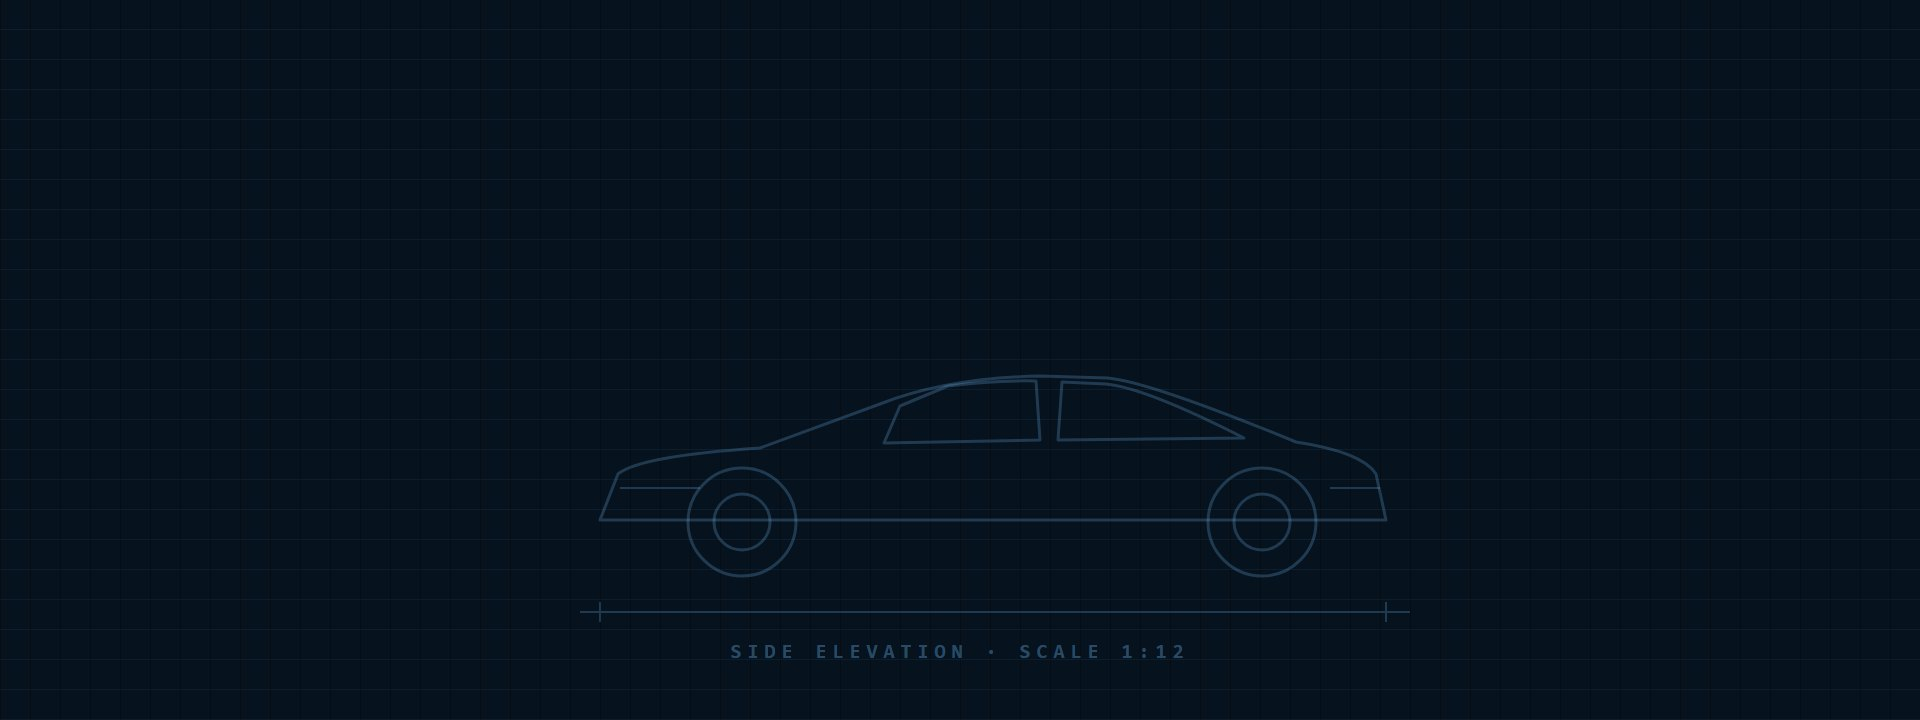
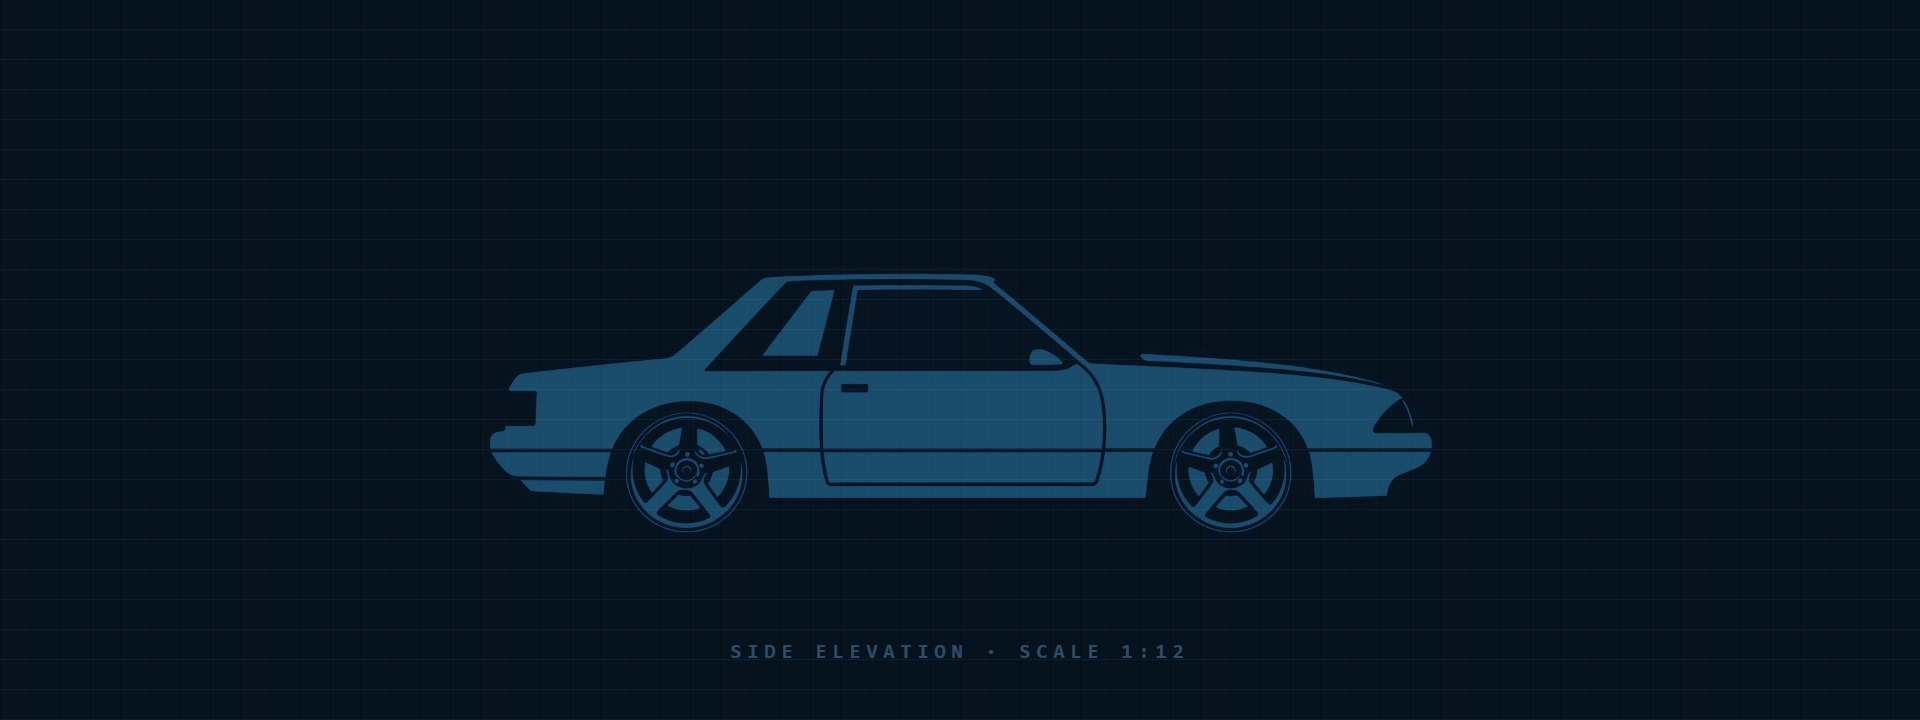
Splash screens use Avery Izatt's own car artwork; hand-drawn car removed
Side and front views (tools/art-src/fox-*-avery.png) replace the generated
line art in all splashes and the blueprint background. Adds a front-view splash.

Changed region(s): [[0.25, 0.3667, 0.75, 0.7639]]

diff --git a/tools/make_art.py b/tools/make_art.py
@@ -8,7 +8,6 @@ rendered at the dash's 1920 x 720 with Chromium, so it is easy to edit and re-ru
 """
 import asyncio
 import base64
-import math
 import json
 from pathlib import Path
 
@@ -42,46 +41,19 @@ def credit(text):
     return f'<div style="position:absolute;right:18px;bottom:12px;font:13px Oswald,sans-serif;letter-spacing:1px;color:#ffffff70">{text}</div>'
 
 
-# ---- Original line art: Fox-body notchback side profile (front at left), 1000 x 300 units ----
-FOX_BODY = ('M50 240 L42 214 L40 196 Q40 184 48 178 L62 163 C140 147 236 126 320 112 L410 39 C444 30 560 27 610 34 L690 99 '
-            'C762 100 880 102 944 109 L951 122 L953 176 Q957 204 947 218 L941 240 L807.8 242 A70 70 0 1 0 676.2 242 L305.8 244 A70 70 0 1 0 174.2 242 Z')
+# ---- The car: Avery Izatt's own artwork (tools/art-src/fox-*-avery.png, transparent PNGs) ----
+# name, image width, image height, crop box (left, top, right, bottom) around the car.
+SIDE = ('fox-side-avery.png', 1536, 1024, (20, 280, 1516, 760))
+FRONT = ('fox-front-avery.png', 1254, 1254, (10, 200, 1244, 1010))
 
 
-def fox_wheel(cx, cy, ink, paper, solid):
-    spokes = ''
-    for i in range(5):
-        a = math.radians(-90 + i * 72)
-        points = [(10, a - .34), (40, a - .12), (40, a + .12), (10, a + .34)]
-        spokes += '<path d="M' + ' L'.join(f'{cx + r * math.cos(t):.1f} {cy + r * math.sin(t):.1f}' for r, t in points) + f'Z" fill="{paper if solid else ink}"/>'
-    if solid:
-        return (f'<circle cx="{cx}" cy="{cy}" r="64" fill="{ink}"/><circle cx="{cx}" cy="{cy}" r="44" fill="{paper}"/>'
-                f'<circle cx="{cx}" cy="{cy}" r="40" fill="{ink}"/>{spokes}<circle cx="{cx}" cy="{cy}" r="9" fill="{paper}"/><circle cx="{cx}" cy="{cy}" r="4" fill="{ink}"/>')
-    return (f'<circle cx="{cx}" cy="{cy}" r="62" fill="{paper}" stroke="{ink}" stroke-width="5"/><circle cx="{cx}" cy="{cy}" r="43" fill="none" stroke="{ink}" stroke-width="3"/>'
-            f'{spokes}<circle cx="{cx}" cy="{cy}" r="10" fill="{ink}"/><circle cx="{cx}" cy="{cy}" r="4" fill="{paper}"/>')
-
-
-def fox(width, ink='#f2f2f2', paper='#0b0d10', glass='#262d34', solid=False, border=0, flip=False, style=''):
-    """The car as an inline SVG. The body is squashed 10% towards the ground for a lowered
-    stance; wheels stay round. border > 0 adds a sticker-style outer outline."""
-    body = ''
-    if border:
-        body += f'<path d="{FOX_BODY}" fill="{ink}" stroke="{ink}" stroke-width="{border}" stroke-linejoin="round"/>'
-    body += f'<path d="{FOX_BODY}" fill="{paper}" stroke="{ink}" stroke-width="5" stroke-linejoin="round"/>'
-    body += f'<path d="M342 110 L416 47 L541 41 L548 107 Z" fill="{glass}"/><path d="M562 106 L556 41 L600 42 L648 103 Z" fill="{glass}"/>'
-    body += f'<path d="M672 101 L622 44 L614 43 L662 102 Z" fill="{glass}"/>'
-    line = f'stroke="{ink}" stroke-width="2.8" fill="none" stroke-linecap="round" stroke-linejoin="round"'
-    body += f'<path d="M333 113 L328 240 M553 109 L557 241 M333 113 L553 109" {line}/>'
-    body += f'<path d="M62 186 L178 181 M302 178 L680 176 M804 176 L951 178 M48 214 L170 210 M812 210 L951 208" {line}/>'
-    body += f'<path d="M100 157 C180 142 250 130 316 120" {line}/>'
-    body += f'<path d="M320 112 L332 99 L348 99 L340 111 Z" fill="{ink}"/><rect x="508" y="127" width="27" height="6" rx="3" fill="{ink}"/>'
-    body += f'<path d="M58 166 L88 160 L88 177 L52 180 Z" fill="{ink}"/><path d="M926 113 L950 122 L952 164 L926 162 Z" fill="{ink}"/>'
-    wheels = ''
-    if border:
-        wheels += ''.join(f'<circle cx="{cx}" cy="216" r="{64 + border / 2}" fill="{ink}"/>' for cx in (240, 742))
-    wheels += fox_wheel(240, 216, ink, paper, solid) + fox_wheel(742, 216, ink, paper, solid)
-    flipped = ' transform="translate(1000,0) scale(-1,1)"' if flip else ''
-    return (f'<svg viewBox="-24 -4 1048 304" width="{width}" style="position:absolute;{style}"><g{flipped}>'
-            f'<g transform="translate(0,28.2) scale(1,.9)">{body}</g>{wheels}</g></svg>')
+def car(art, width, style='', effects=''):
+    """The car artwork cropped to its box and scaled to `width` pixels wide."""
+    name, image_width, _, (left, top, right, bottom) = art
+    scale = width / (right - left)
+    return (f'<div style="position:absolute;overflow:hidden;width:{width}px;height:{(bottom - top) * scale:.0f}px;{style}">'
+            f'<img src="{data(name)}" style="display:block;width:{image_width * scale:.1f}px;max-width:none;'
+            f'margin:{-top * scale:.1f}px 0 0 {-left * scale:.1f}px;{effects}"></div>')
 
 
 def stage(inner, glow='#1a2129'):
@@ -115,12 +87,7 @@ ART = [
 <div style="position:absolute;inset:0;background:radial-gradient(ellipse 55% 70% at 100% 100%,#c0181a38,transparent 70%),linear-gradient(90deg,#000a,transparent 30%,transparent 70%,#000a)"></div>'''),
     ('bg-blueprint-coupe.jpg', 'background', 'Blueprint coupe', '''
 <div style="position:absolute;inset:0;background:repeating-linear-gradient(0deg,#5fb6ff12 0 1px,transparent 1px 30px),repeating-linear-gradient(90deg,#5fb6ff12 0 1px,#06121e 1px 30px)"></div>
-<svg width="1920" height="720" style="position:absolute;inset:0" fill="none" stroke="#7cc4ff3a" stroke-width="3" stroke-linejoin="round">
-<path d="M600 520 L618 474 Q640 456 760 448 L880 404 Q946 378 1040 376 L1108 378 Q1150 382 1296 442 Q1362 452 1376 474 L1386 520 Z"/>
-<path d="M900 406 L948 386 Q996 380 1036 381 L1040 440 L884 443 Z"/><path d="M1062 382 L1106 384 Q1146 388 1244 438 L1058 440 Z"/>
-<path d="M620 488 H700 M1330 488 H1380" stroke-width="2"/>
-<circle cx="742" cy="522" r="54"/><circle cx="742" cy="522" r="28"/><circle cx="1262" cy="522" r="54"/><circle cx="1262" cy="522" r="28"/>
-<path d="M580 612 H1410 M600 602 V622 M1386 602 V622" stroke-width="2"/></svg>
+''' + car(SIDE, 980, 'left:470px;top:250px;opacity:.34;mix-blend-mode:screen', 'filter:brightness(.55) sepia(1) hue-rotate(175deg) saturate(5)') + '''
 <div style="position:absolute;left:960px;top:640px;transform:translateX(-50%);color:#7cc4ff55;font:600 20px monospace;letter-spacing:6px">SIDE ELEVATION · SCALE 1:12</div>'''),
     ('bg-tach-glow.jpg', 'background', 'Tach glow', '''
 <div style="position:absolute;inset:0;background:radial-gradient(circle at 50% 120%,#1a0a0a,#050506 60%)"></div>
@@ -132,41 +99,46 @@ ART = [
     ('bg-photo-pace-car.jpg', 'background', 'Pace car (photo)', photo_bg('mustang-pace-car.jpg', '50% 70%')),
     ('bg-photo-fastback.jpg', 'background', 'Fastback (photo)', photo_bg('mustang-fox-fastback.jpg', '50% 50%')),
     ('bg-photo-gt-blue.jpg', 'background', 'Blue GT (photo)', photo_bg('mustang-1985-gt-blue.jpg', '60% 60%')),
-    # Splash screens: original line art, the Ford oval and the 1980s Mustang script (see CREDITS.md).
+    # Splash screens: the owner's car artwork, the Ford oval and the 1980s Mustang script (see CREDITS.md).
     ('splash-made-by-avery-izatt.jpg', 'splash', 'Made by Avery Izatt', stage(
-        fox(1060, style='left:430px;top:22px') + f"""
-<div style="position:absolute;left:0;right:0;top:364px;text-align:center;font:500 26px/1 Oswald,sans-serif;letter-spacing:18px;color:#d23a3a">MADE BY</div>
-<div style="position:absolute;left:0;right:0;top:406px;text-align:center;{WIDE};font-size:118px;line-height:1;letter-spacing:6px;color:#f4f4f4">Avery Izatt</div>
-<div style="position:absolute;left:660px;top:556px;width:600px;height:5px;background:linear-gradient(90deg,#d23a3a 0 33.3%,#f4f4f4 33.3% 66.6%,#2f6fd8 66.6%)"></div>
-<div style="position:absolute;left:0;right:0;top:582px;text-align:center;font:400 22px/1 Oswald,sans-serif;letter-spacing:10px;color:#8d98a2">FOX BODY · 5.0</div>""")),
+        car(SIDE, 1040, 'left:440px;top:22px') + f"""
+<div style="position:absolute;left:0;right:0;top:372px;text-align:center;font:500 26px/1 Oswald,sans-serif;letter-spacing:18px;color:#d23a3a">MADE BY</div>
+<div style="position:absolute;left:0;right:0;top:412px;text-align:center;{WIDE};font-size:118px;line-height:1;letter-spacing:6px;color:#f4f4f4">Avery Izatt</div>
+<div style="position:absolute;left:660px;top:560px;width:600px;height:5px;background:linear-gradient(90deg,#d23a3a 0 33.3%,#f4f4f4 33.3% 66.6%,#2f6fd8 66.6%)"></div>
+<div style="position:absolute;left:0;right:0;top:586px;text-align:center;font:400 22px/1 Oswald,sans-serif;letter-spacing:10px;color:#8d98a2">FOX BODY · 5.0</div>""")),
     ('splash-ford-oval.jpg', 'splash', 'Ford oval', f"""
 <div style="position:absolute;inset:0;background:radial-gradient(ellipse 60% 75% at 50% 50%,#1b2a4a,#05070c 75%)"></div>
 <div style="position:absolute;inset:0;background:repeating-linear-gradient(90deg,#ffffff05 0 1px,transparent 1px 4px)"></div>
 <img src="{data('ford-oval.png')}" style="position:absolute;left:50%;top:44%;width:760px;transform:translate(-50%,-50%);filter:drop-shadow(0 18px 40px #000c)">
 <div style="position:absolute;left:0;right:0;top:560px;text-align:center;font:500 30px/1 Oswald,sans-serif;letter-spacing:18px;color:#c9d3e4">FOX BODY MUSTANG</div>
 {notice('Ford oval is a trademark of Ford Motor Company · not affiliated')}"""),
-    ('splash-mustang-outline.jpg', 'splash', 'Mustang outline', stage(
-        fox(1180, style='left:370px;top:14px') + f"""
-<div style="position:absolute;left:0;right:0;top:344px;text-align:center;{WIDE};font-size:208px;line-height:1;letter-spacing:10px;color:#f4f4f4;-webkit-text-stroke:5px #f4f4f4">Mustang</div>
-<div style="position:absolute;left:0;right:0;top:590px;text-align:center;font:400 22px/1 Oswald,sans-serif;letter-spacing:14px;color:#8d98a2">1979 – 1993</div>""")),
-    ('splash-mustang-script.jpg', 'splash', 'Mustang script', stage(f"""
-<img src="{data('mustang-script.png')}" style="position:absolute;left:50%;top:292px;width:1060px;transform:translate(-50%,-50%);filter:invert(1) drop-shadow(0 14px 30px #000a)">
-<div style="position:absolute;left:560px;top:498px;width:800px;height:4px;background:#d23a3a"></div>
-<div style="position:absolute;left:0;right:0;top:530px;text-align:center;font:500 30px/1 Oswald,sans-serif;letter-spacing:20px;color:#d9dee3">5.0 LITER · HIGH OUTPUT</div>
+    ('splash-mustang-outline.jpg', 'splash', 'Mustang', stage(
+        car(SIDE, 1120, 'left:400px;top:6px') + f"""
+<div style="position:absolute;left:0;right:0;top:366px;text-align:center;{WIDE};font-size:196px;line-height:1;letter-spacing:10px;color:#f4f4f4;-webkit-text-stroke:5px #f4f4f4">Mustang</div>
+<div style="position:absolute;left:0;right:0;top:596px;text-align:center;font:400 22px/1 Oswald,sans-serif;letter-spacing:14px;color:#8d98a2">1979 – 1993</div>""")),
+    ('splash-mustang-script.jpg', 'splash', 'Mustang script', stage(
+        car(FRONT, 760, 'left:1060px;top:104px') + f"""
+<img src="{data('mustang-script.png')}" style="position:absolute;left:110px;top:176px;width:860px;filter:invert(1) drop-shadow(0 14px 30px #000a)">
+<div style="position:absolute;left:120px;top:460px;width:820px;height:4px;background:#d23a3a"></div>
+<div style="position:absolute;left:120px;top:490px;font:500 30px/1 Oswald,sans-serif;letter-spacing:19px;color:#d9dee3">5.0 LITER · HIGH OUTPUT</div>
 {notice('Mustang is a trademark of Ford Motor Company · not affiliated')}""", glow='#231416')),
-    ('splash-fox-body.jpg', 'splash', 'Fox body sticker', f"""
+    ('splash-fox-body.jpg', 'splash', 'Fox body', f"""
 <div style="position:absolute;inset:0;background:linear-gradient(160deg,#4a5057,#23272c 70%)"></div>
 <div style="position:absolute;inset:0;background:repeating-linear-gradient(115deg,#ffffff06 0 2px,transparent 2px 7px)"></div>
-{fox(1240, ink='#0c0d0f', paper='#f6f6f4', glass='#0c0d0f', solid=True, border=26, flip=True, style='left:340px;top:36px;filter:drop-shadow(0 22px 26px #0009)')}
-<div style="position:absolute;left:0;right:0;top:468px;text-align:center;{WIDE};font-size:84px;line-height:1;letter-spacing:22px;color:#f6f6f4">Fox Body</div>
-<div style="position:absolute;left:0;right:0;top:576px;text-align:center;font:400 24px/1 Oswald,sans-serif;letter-spacing:14px;color:#c3c9cf">NOTCHBACK · 1979 – 1993</div>"""),
+{car(SIDE, 1260, 'left:330px;top:20px;filter:drop-shadow(0 22px 24px #0009)')}
+<div style="position:absolute;left:0;right:0;top:456px;text-align:center;{WIDE};font-size:84px;line-height:1;letter-spacing:22px;color:#f6f6f4">Fox Body</div>
+<div style="position:absolute;left:0;right:0;top:568px;text-align:center;font:400 24px/1 Oswald,sans-serif;letter-spacing:14px;color:#c3c9cf">NOTCHBACK · 1979 – 1993</div>"""),
+    ('splash-fox-front.jpg', 'splash', 'Fox body front', stage(
+        car(FRONT, 640, 'left:640px;top:14px') + f"""
+<div style="position:absolute;left:0;right:0;top:458px;text-align:center;{WIDE};font-size:96px;line-height:1;letter-spacing:26px;color:#f4f4f4">Fox Body</div>
+<div style="position:absolute;left:760px;top:574px;width:400px;height:4px;background:#f2b705"></div>""")),
     ('splash-five-point-oh.jpg', 'splash', '5.0', stage(
-        fox(1000, style='left:820px;top:190px') + f"""
+        car(SIDE, 1000, 'left:830px;top:180px') + f"""
 <div style="position:absolute;left:120px;top:150px;{WIDE};font-size:330px;line-height:1;letter-spacing:-6px;color:transparent;-webkit-text-stroke:5px #f4f4f4">5.0</div>
 <div style="position:absolute;left:132px;top:520px;width:640px;height:5px;background:#d23a3a"></div>
 <div style="position:absolute;left:132px;top:548px;font:500 34px/1 Oswald,sans-serif;letter-spacing:18px;color:#e04848">HIGH OUTPUT</div>""")),
     ('splash-built-not-bought.jpg', 'splash', 'Built not bought', stage(
-        fox(900, style='left:960px;top:214px') + f"""
+        car(FRONT, 780, 'left:1040px;top:96px') + f"""
 <div style="position:absolute;left:120px;top:176px;font:700 150px/.95 Oswald,sans-serif;color:#f5f5f5;text-transform:uppercase">Built<br><span style="color:#e2b13c">not bought</span></div>
 <div style="position:absolute;left:124px;top:490px;width:520px;height:5px;background:#e2b13c"></div>
 <div style="position:absolute;left:124px;top:518px;font:400 26px/1 Oswald,sans-serif;letter-spacing:12px;color:#8d98a2">GARAGE MADE</div>""", glow='#221d12')),

diff --git a/docs/race-and-appearance.md b/docs/race-and-appearance.md
@@ -134,10 +134,11 @@ the adjustable instrument surfaces, and splash images use contain rather than cr
 
 **Bundled artwork.** `hardware/art/` ships generated backgrounds (Fox-body stripes,
 night highway, carbon and red, blueprint coupe, tach glow), darkened photo backgrounds
-of Fox-body Mustangs, and seven splash screens: Made by Avery Izatt, Ford oval,
-Mustang outline, Mustang script, Fox body sticker, 5.0 and Built not bought. The
-splashes use original line art of a notchback (drawn in `tools/make_art.py`), the
-Ford oval and the 1980s Mustang script badge; captions stay clear of the dash hump
+of Fox-body Mustangs, and eight splash screens: Made by Avery Izatt, Ford oval,
+Mustang, Mustang script, Fox body, Fox body front, 5.0 and Built not bought. The car in
+every splash (and in the blueprint background) is Avery Izatt's own artwork
+(`tools/art-src/fox-side-avery.png`, `fox-front-avery.png`), alongside the Ford oval
+and the 1980s Mustang script badge; captions stay clear of the dash hump
 at the bottom centre. They update with `git pull` and appear first in the file picker
 as **Bundled art**. Chosen images are also saved on the Pi, so they survive key-off.
 To change or add designs, edit `tools/make_art.py`, run it, then `python tools/update_preview.py`.

diff --git a/tools/art-src/CREDITS.md b/tools/art-src/CREDITS.md
@@ -16,4 +16,5 @@ It is included only for display on the owner's own car. This project is not affi
 | `ford-oval.png` | [File:Ford logo flat.svg](https://commons.wikimedia.org/wiki/File:Ford_logo_flat.svg) | Ford Motor Company | Public domain |
 | `mustang-script.png` | [File:Mustang logo.png](https://commons.wikimedia.org/wiki/File:Mustang_logo.png) | Arosio Stefano | Public domain (trademark of Ford Motor Company) |
 
-The car line art in the splash screens is original (drawn in `tools/make_art.py`).
+The car artwork in the splash screens and the blueprint background (`fox-side-avery.png`,
+`fox-front-avery.png`) was made by Avery Izatt, the owner of this project.
